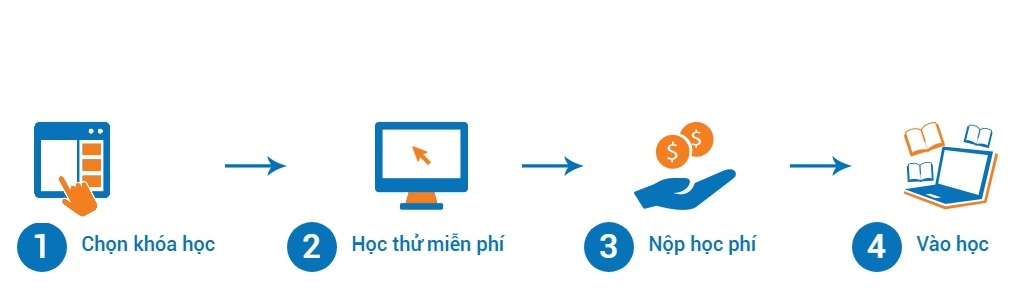
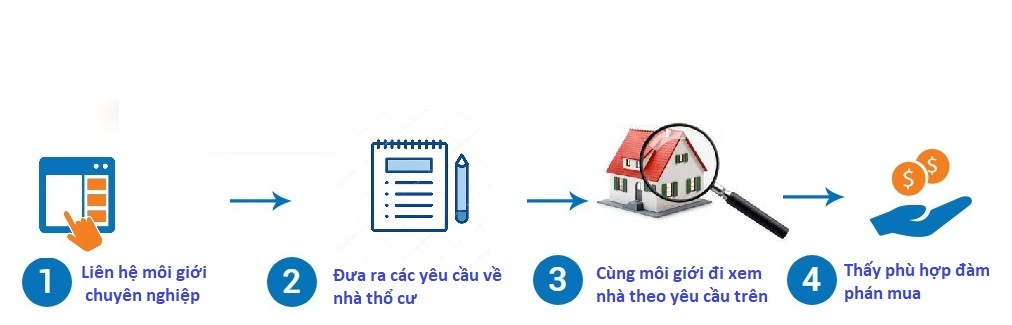
a

diff --git a/index.html b/index.html
@@ -269,10 +269,10 @@
           <!-- Wrapper for slides -->
           <div class="carousel-inner" role="listbox">
             <div class="item active">
-                <img src="img1/dodunghoctap/kinhhienvi.jpg">
+                <img src="img1/dodunghoctap/ngoinha.jpg">
                 <button type="button" class="btn qickshop center-block" ><a class="buttonwhite" href="">Chi tiết</a></button>
                 <div class=" sanphaminfor"> 
-                  <p class="text-center" style="font-weight: bold;">Kính hiển vi</p>
+                  <p class="text-center" style="font-weight: bold;">Nhà Nguyễn Trãi</p>
                    <div class="text-center"><span class="danhgia "><i class="fa fa-star" aria-hidden="true"></i><i class="fa fa-star" aria-hidden="true"></i><i class="fa fa-star" aria-hidden="true"></i><i class="fa fa-star" aria-hidden="true"></i><i class="fa fa-star-half-o" aria-hidden="true"></i></span>
                     </div>
                 </div>
@@ -284,10 +284,10 @@
                  </div>
             </div>
             <div class="item">
-               <img src="img1/dodunghoctap/balo.jpg" alt="...">              
+               <img src="img1/dodunghoctap/ngoinha.jpg" alt="...">              
                 <button type="button" class="btn qickshop center-block" ><a class="buttonwhite" href="">Chi tiết</a></button>           
                  < <div class=" sanphaminfor"> 
-                  <p class="text-center" style="font-weight: bold;">Ba lô chống gù</p>
+                  <p class="text-center" style="font-weight: bold;">Nhà Dương Nội</p>
                   <div class="text-center"><span class="danhgia "><i class="fa fa-star" aria-hidden="true"></i><i class="fa fa-star" aria-hidden="true"></i><i class="fa fa-star" aria-hidden="true"></i><i class="fa fa-star" aria-hidden="true"></i><i class="fa fa-star-half-o" aria-hidden="true"></i></span>
                     </div>
                 </div>
@@ -298,10 +298,10 @@
                  </div>
             </div>
             <div class="item">
-                 <img src="img1/dodunghoctap/robot.jpg">              
+                 <img src="img1/dodunghoctap/ngoinha.jpg">              
                 <button type="button" class="btn qickshop center-block" ><a class="buttonwhite" href="">Chi tiết</a></button>           
                   <div class=" sanphaminfor"> 
-                  <p class="text-center" style="font-weight: bold;">Rô bốt lập trình</p>
+                  <p class="text-center" style="font-weight: bold;">Nhà La Khê</p>
                   <div class="text-center"><span class="danhgia "><i class="fa fa-star" aria-hidden="true"></i><i class="fa fa-star" aria-hidden="true"></i><i class="fa fa-star" aria-hidden="true"></i><i class="fa fa-star" aria-hidden="true"></i><i class="fa fa-star-half-o" aria-hidden="true"></i></span>
                     </div>
                 </div>
@@ -312,10 +312,10 @@
                  </div>
             </div>
             <div class="item">
-                 <img src="img1/dodunghoctap/giasach.jpg" alt="...">              
+                 <img src="img1/dodunghoctap/ngoinha.jpg" alt="...">              
                 <button type="button" class="btn qickshop center-block" ><a class="buttonwhite" href="">Chi tiết</a></button>           
                   <div class=" sanphaminfor"> 
-                  <p class="text-center" style="font-weight: bold;">Giá sách thông minh</p>
+                  <p class="text-center" style="font-weight: bold;">Nhà Yên Nghĩa</p>
                   <div class="text-center"><span class="danhgia "><i class="fa fa-star" aria-hidden="true"></i><i class="fa fa-star" aria-hidden="true"></i><i class="fa fa-star" aria-hidden="true"></i><i class="fa fa-star" aria-hidden="true"></i><i class="fa fa-star-half-o" aria-hidden="true"></i></span>
                     </div>
                 </div>
@@ -365,16 +365,16 @@
           <div class="carousel-inner" role="listbox">
             <div class="item active">
                 <div class="img text-center"><img src="img/author_1.jpg">  </div>              
-                <div class="danhgia text-center"> 
-                  <p>Mua nhà thì cần tự đi xem thực tế chứ không thể ở nhà mà đánh giá được...</p>
-                  <p> Anh Lê văn B</p>
+                <div class="danhgia "> 
+                  <p class="text-justify">Mua nhà thì cần tự đi xem thực tế chứ không thể ở nhà mà đánh giá được.Mọi người đừng kỳ vọng ngồi 1 chỗ mà mua được nhà</p>
+                  <h5 class="text-center" style="color:Green;"> Chị XuKa</h5>
                 </div>                
             </div>
             <div class="item">
-                <div class="img text-center"><img src="img/author_2.png">  </div>
-                 <div class="danhgia text-center"> 
-                  <p>Muốn tiết kiệm thời gian và dễ giao dịch phải cần môi giới...</p>
-                  <p> Chị Nguyễn thị A</p>
+                <div class="img text-center"><img src="img/author_2.jpg">  </div>
+                 <div class="danhgia "> 
+                  <p class="text-justify">Muốn tiết kiệm thời gian và dễ giao dịch phải cần trung gian. Nhiều người mất cả năm mà vẫn chưa tìm được căn nhà nào để mua</p>
+                  <h5 class="text-center" style="color:Green;"> Anh Nobita</h5>
                 </div>      
             </div>           
           </div><!-- ket thuc div carousel-inner -->
@@ -399,6 +399,37 @@
   	
   	
   	</div>
+
+
+
+
+
+
+
+ <div class="antuong thumbnail text-center hidden-sm hidden-xs"> 
+      <img src="img1/phanantuong/englishonline.jpg">
+      <div class="hieuung"></div>
+      <div class="hieuung1"></div>
+      <div class="hieuung2"></div>
+      <div class="infoantuong">
+          <p>Ngoài ra bạn có nhu cầu học tiếng Anh online với người nước ngoài tôi cũng có thể kết nối giúp bạn</p>
+          <h2>Học trực tiếp 1-1</h2>
+          <p>Tăng khả năng giao tiếp tiếng Anh</p>
+           <p > <a href="tel://0984214768" >Liên hệ</a></p>
+ 
+      </div>
+    </div><!-- ket thuc an tuong -->
+
+
+
+
+
+
+
+
+
+
+
  
   </div><!-- ket thúc thân bên trái -->
   <!-- phan than ben phai -->
@@ -636,21 +667,15 @@
 //////////////////////////////////////// -->
 
 
- <div class="bannerphu hidden-xs hidden-sm">
+ <div class="bannerphu">
        <div class="thongtinbannerphu">
           <h2>QUY TRÌNH MUA NHÀ</h2>
        </div>
     </div>
 
-
-
 <!-- gioi thieu -->
 
-
-
-
      <!-- phan 3 san pham giam can --> 
-
 
  <div class="row">
     <div id="main2">       
@@ -661,20 +686,11 @@
     </div> 
   </div><!-- ket thuc div row -->
  
-    <!-- <div class="bannerphu hidden-xs hidden-sm">
-       <div class="thongtinbannerphu">
-          <h2> Sản phẩm giảm cân - dáng đẹp cho bạn</h2>
-       </div>
-    </div>
-  -->
+   
 <div class="gioithieu " id="gioithieu">
           
 
-  
-
-
-
-  <div class="row">
+    <div class="row">
     <div id="main4">       
            <!-- Controls -->
       <div class="nutcontrol">
@@ -703,7 +719,7 @@
                 <div class="bt-service-content"> 
                     <a class="bt-service-icon" href="#"><i class="fa fa-thumbs-o-up"></i></a>
                     <h2>Nhà đã được kiểm tra về tính pháp lý</h2>
-                    <p>- Đảm bảo giao dịch an toàn cho bạn</p> 
+                    <p>- Đảm bảo giao dịch an toàn đúng pháp luật cho bạn</p> 
                     <p>- Tiết kiệm thời gian tìm nhà an toàn</p> 
                                         <a class="btn" href="#"><div class="nutthemgiohang center-block">Xem Ngay</div></a> 
                 </div>
